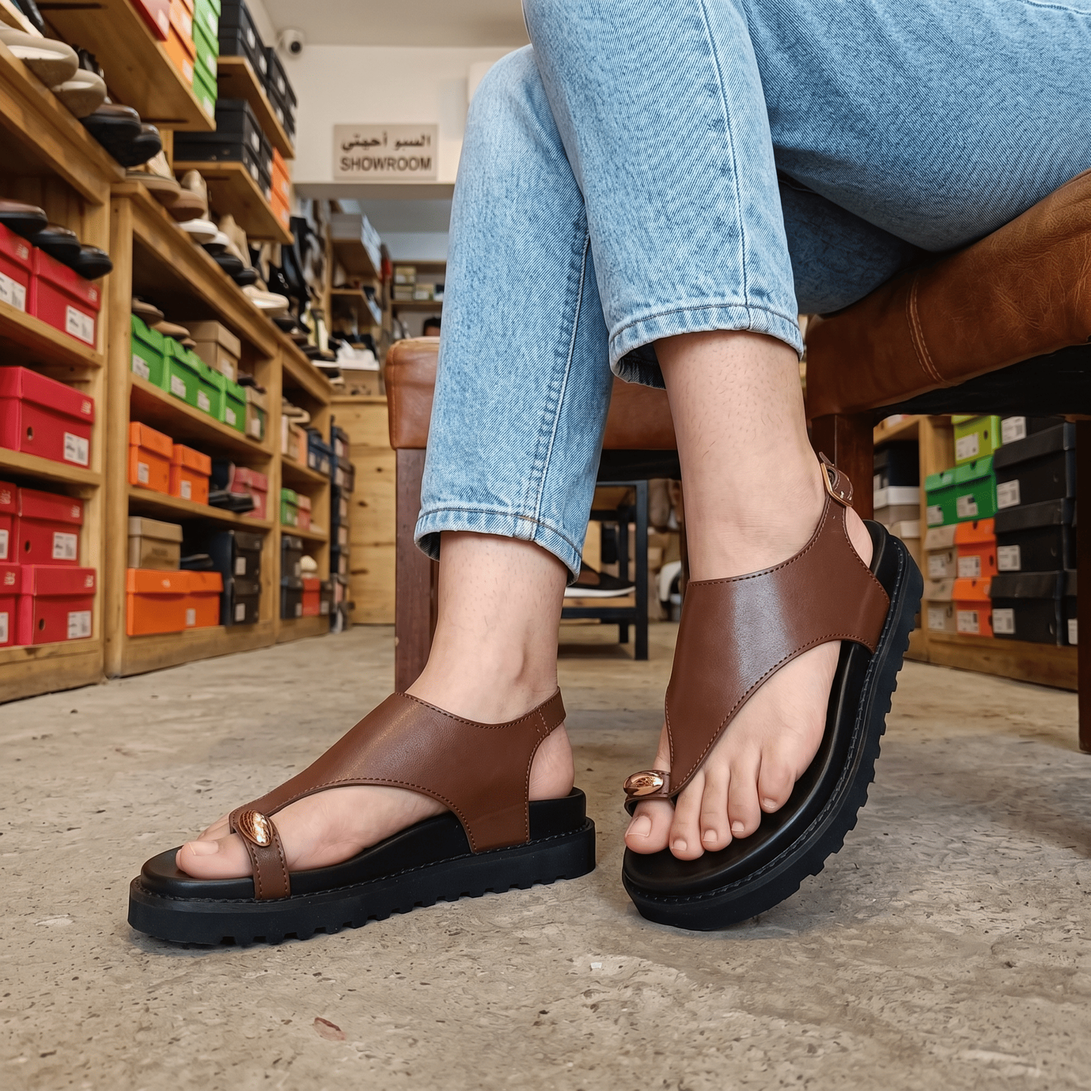
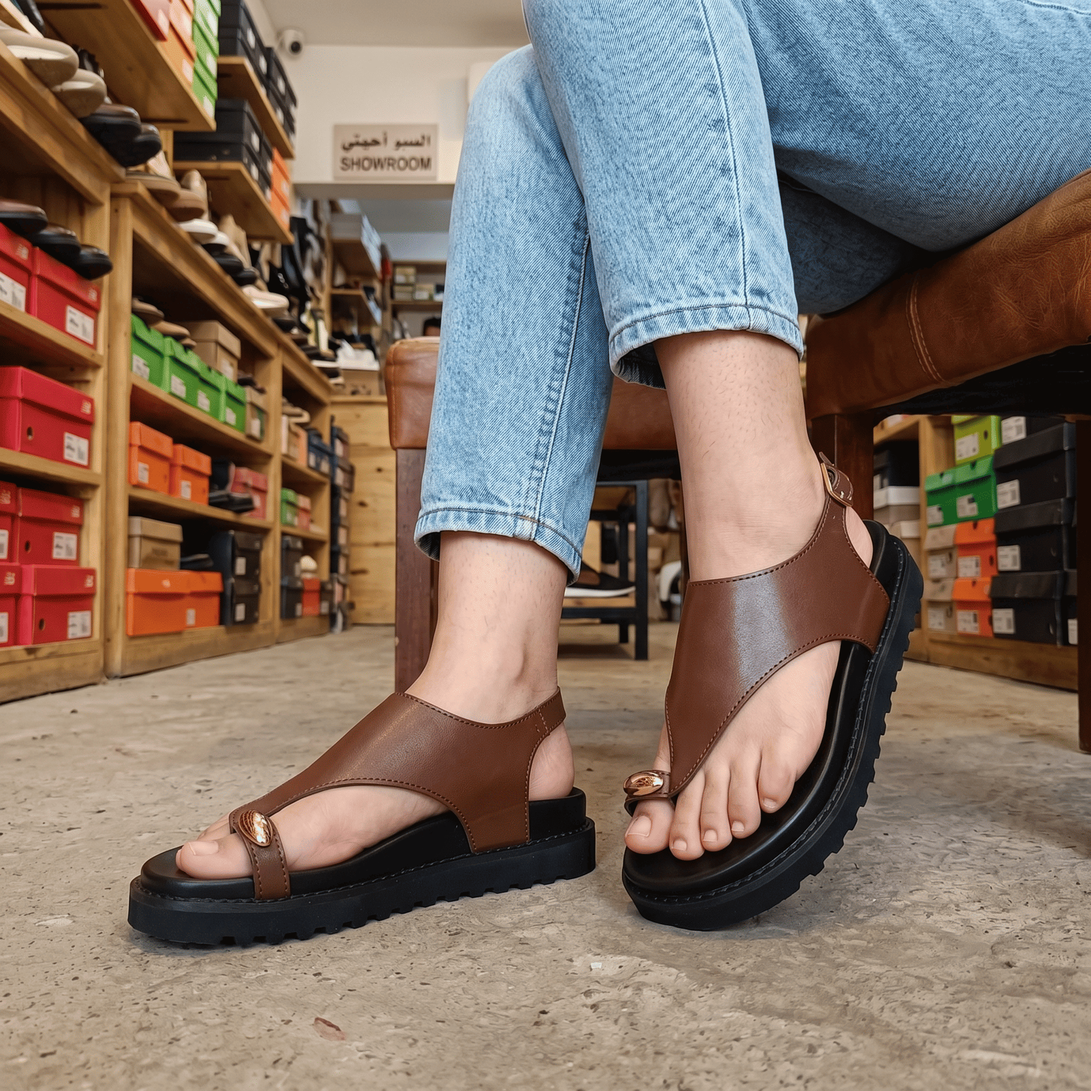
fix: vercel.json invalid source patter

diff --git a/index.html b/index.html
@@ -33,7 +33,7 @@ tailwind.config = {
 <!-- META PIXEL -->
 <script>
 !function(f,b,e,v,n,t,s){if(f.fbq)return;n=f.fbq=function(){n.callMethod?n.callMethod.apply(n,arguments):n.queue.push(arguments)};if(!f._fbq)f._fbq=n;n.push=n;n.loaded=!0;n.version='2.0';n.queue=[];t=b.createElement(e);t.async=!0;t.src=v;s=b.getElementsByTagName(e)[0];s.parentNode.insertBefore(t,s)}(window,document,'script','https://connect.facebook.net/en_US/fbevents.js');
-fbq('init','YOUR_PIXEL_ID');fbq('track','PageView');
+fbq('init','2347884935738822');fbq('track','PageView');
 </script>
 <style>
 /* ===== RESET & BASE ===== */
@@ -1069,7 +1069,7 @@ const PRODS = [
     id: 2,
     name: 'صندلة أوربان العصرية',
     sub:  'ديزاين شبابي — ثلاث أحزمة على نعل ضخم',
-    price: 179, old: 219,
+    price: 179, old: 199,
     badge: '<svg class="w-3.5 h-3.5 stroke-current fill-none inline-block align-text-bottom" stroke-width="2" viewBox="0 0 24 24"><path d="M12 2v4"/><path d="M12 18v4"/><path d="M4.93 4.93l2.83 2.83"/><path d="M16.24 16.24l2.83 2.83"/><path d="M2 12h4"/><path d="M18 12h4"/><path d="M4.93 19.07l2.83-2.83"/><path d="M16.24 7.76l2.83-2.83"/></svg> جديد',
     desc: 'ديزاين عصري بثلاث أحزمة قابلة للتعديل على نعل ضخم ومريح. ستايل قوي يواتي الاستعمال اليومي مع راحة فابور.',
     colors: [
@@ -1104,7 +1104,9 @@ const PRODS = [
       { name:'بني شوكولا', hex:'#8B5E4A', img:'./images/tolba-black-zara-1.png' },
       { name:'بني شوكولا', hex:'#8B5E4A', img:'./images/tolba-black-zara-2.png' },
       { name:'بني شوكولا', hex:'#8B5E4A', img:'./images/tolba-black-zara-3.png' },
-      { name:'بني شوكولا', hex:'#8B5E4A', img:'./images/tolba-black-zara-4.png' }
+      { name:'بني شوكولا', hex:'#8B5E4A', img:'./images/tolba-black-zara-4.png' },
+      { name:'بني شوكولا', hex:'#8B5E4A', img:'./images/tolba-black-zara-5.png' },
+      { name:'بني شوكولا', hex:'#8B5E4A', img:'./images/tolba-black-zara-6.png' }
     ],
     sizes: ['37','38','39','40'], oos: [], stock: 8
   }
@@ -1139,6 +1141,16 @@ function nav(page, prodId) {
   } else if (page === 'checkout') {
     if (!cart.length) { nav('cart'); return; }
     renderCheckoutSummary();
+    if (typeof fbq !== 'undefined') {
+      const total = cart.reduce((s, i) => s + i.price * i.qty, 0);
+      fbq('track','InitiateCheckout',{
+        content_ids: cart.map(i => String(i.pid)),
+        content_type:'product',
+        num_items: cart.reduce((s,i)=>s+i.qty,0),
+        value: total,
+        currency:'MAD'
+      });
+    }
   }
   updateBadge();
 }
@@ -1217,6 +1229,16 @@ function renderProductPage(id) {
   if (!p) return;
   pdCurrent = 0; pdTotal = p.colors.length; pdQty = 1;
   pdSize = p.sizes.length > 1 ? p.sizes[1] : p.sizes[0];
+
+  if (typeof fbq !== 'undefined') {
+    fbq('track','ViewContent',{
+      content_ids:[String(p.id)],
+      content_type:'product',
+      content_name:p.name,
+      value:p.price,
+      currency:'MAD'
+    });
+  }
 
   if (p.colors[0]) { const img = new Image(); img.src = p.colors[0].img; }
 
@@ -1356,6 +1378,15 @@ function addToCart(goCheckout = false) {
   if (existing) { existing.qty += pdQty; } 
   else { cart.push({ pid: curProdId, name: p.name, color: p.colors[pdCurrent].name, size: pdSize, price: p.price, qty: pdQty, img: p.colors[pdCurrent].img }); }
   saveCart(); updateBadge(); popBadge();
+  if (typeof fbq !== 'undefined') {
+    fbq('track','AddToCart',{
+      content_ids:[String(curProdId)],
+      content_type:'product',
+      content_name:p.name,
+      value:p.price*pdQty,
+      currency:'MAD'
+    });
+  }
   if (goCheckout) { nav('checkout'); }
   else { showToast('✓ تمت الإضافة للسلة!', '#1A1A1A'); }
 }
@@ -1457,7 +1488,17 @@ function submitOrder(e) {
     items: cart.map(i => `${i.name} (نمرة ${i.size}) ×${i.qty}`).join(' | ')
   };
   fetch(GSHEET, { method:'POST', mode:'no-cors', body: JSON.stringify(order) }).catch(()=>{});
-  if (typeof fbq !== 'undefined') fbq('track','Purchase',{ value:total, currency:'MAD' });
+  if (typeof fbq !== 'undefined') {
+    const eventId = 'order_' + Date.now() + '_' + Math.random().toString(36).slice(2,8);
+    fbq('track','Purchase',{
+      content_ids: cart.map(i => String(i.pid)),
+      content_type:'product',
+      contents: cart.map(i => ({ id: String(i.pid), quantity: i.qty, item_price: i.price })),
+      num_items: cart.reduce((s,i)=>s+i.qty,0),
+      value: total,
+      currency:'MAD'
+    }, { eventID: eventId });
+  }
   cart = []; saveCart(); updateBadge();
   openSM();
   setTimeout(() => { document.getElementById('orderForm').reset(); nav('home'); }, 5500);
